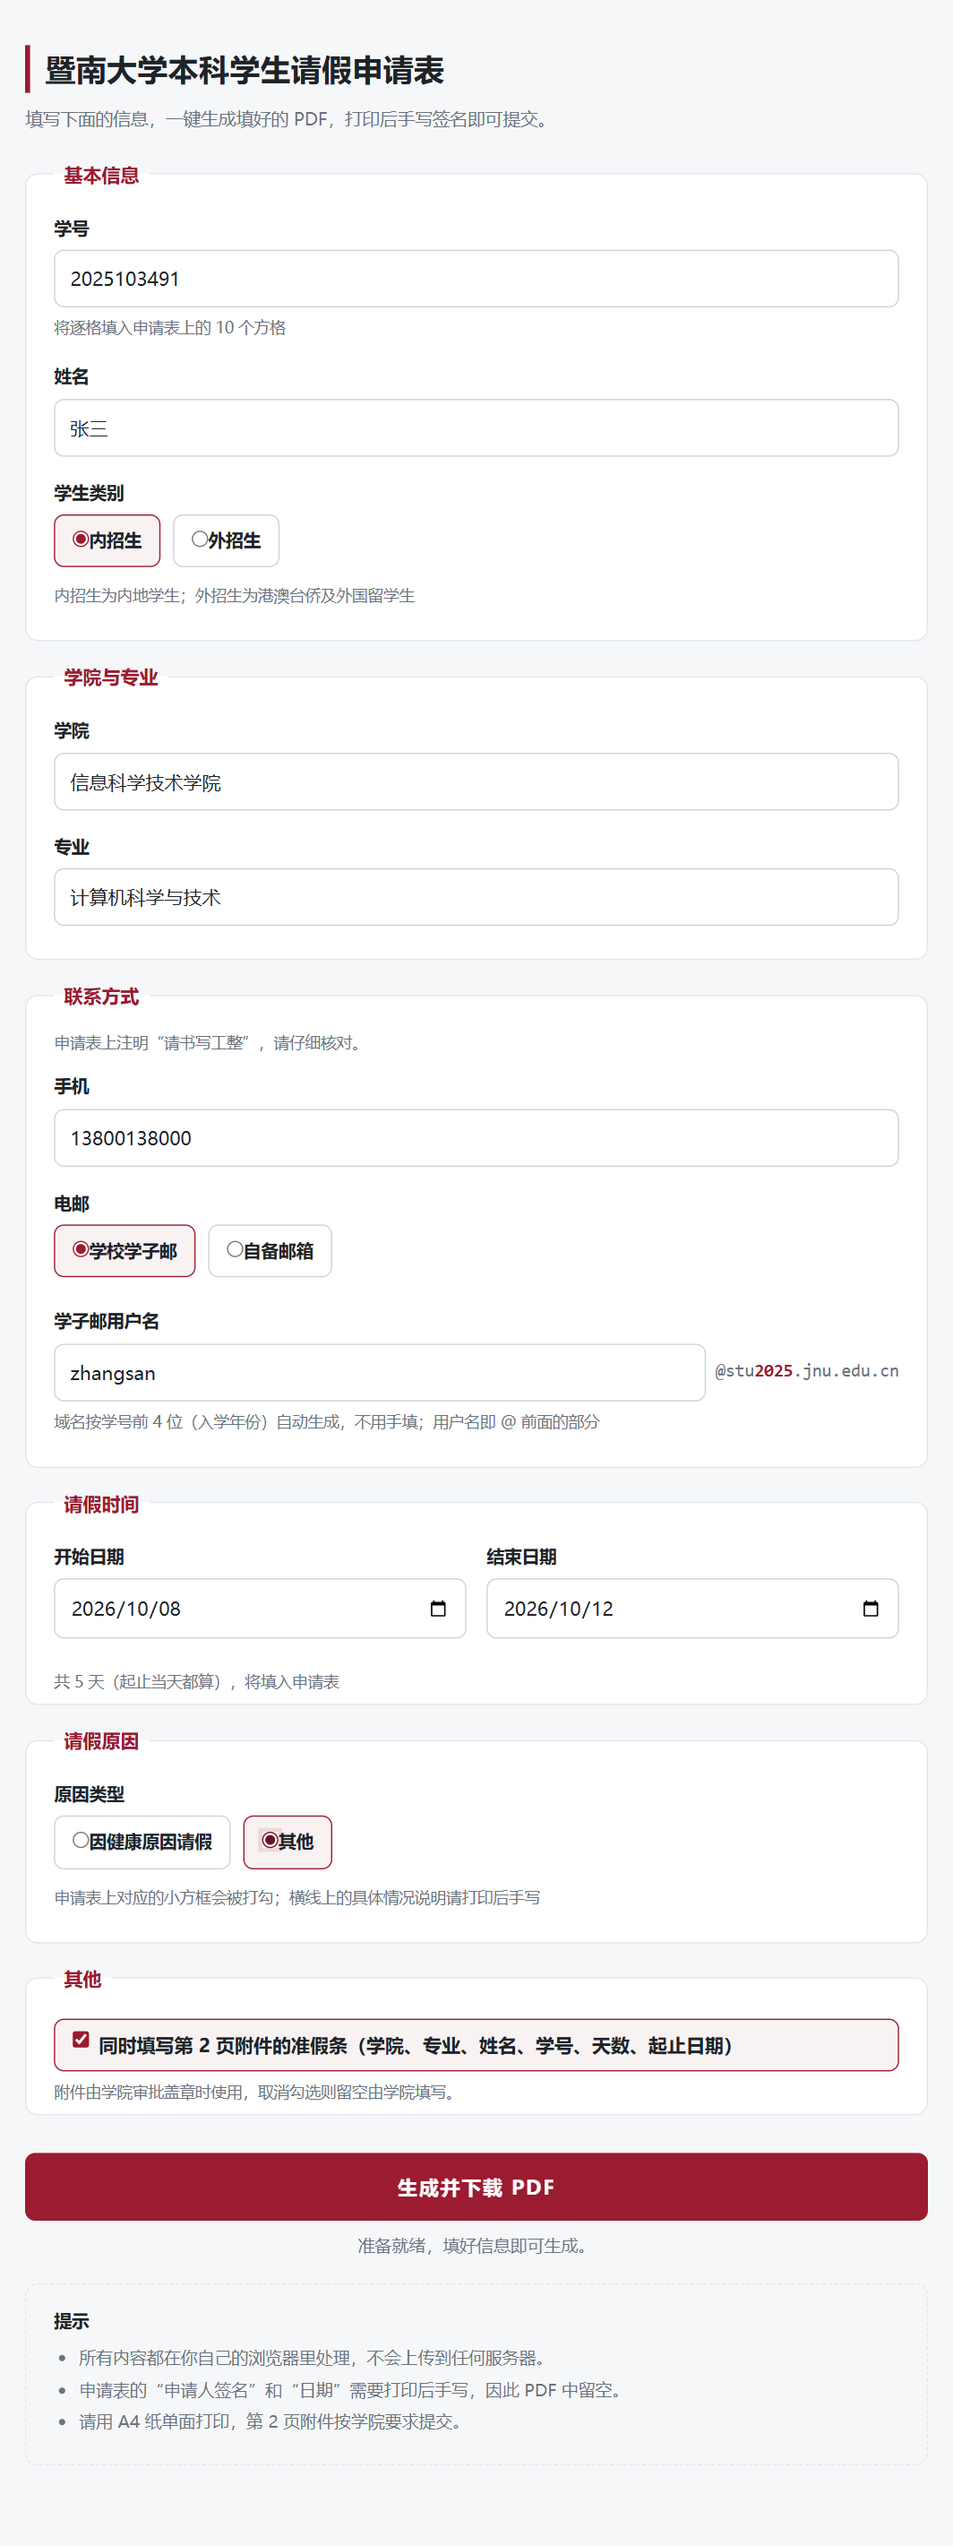
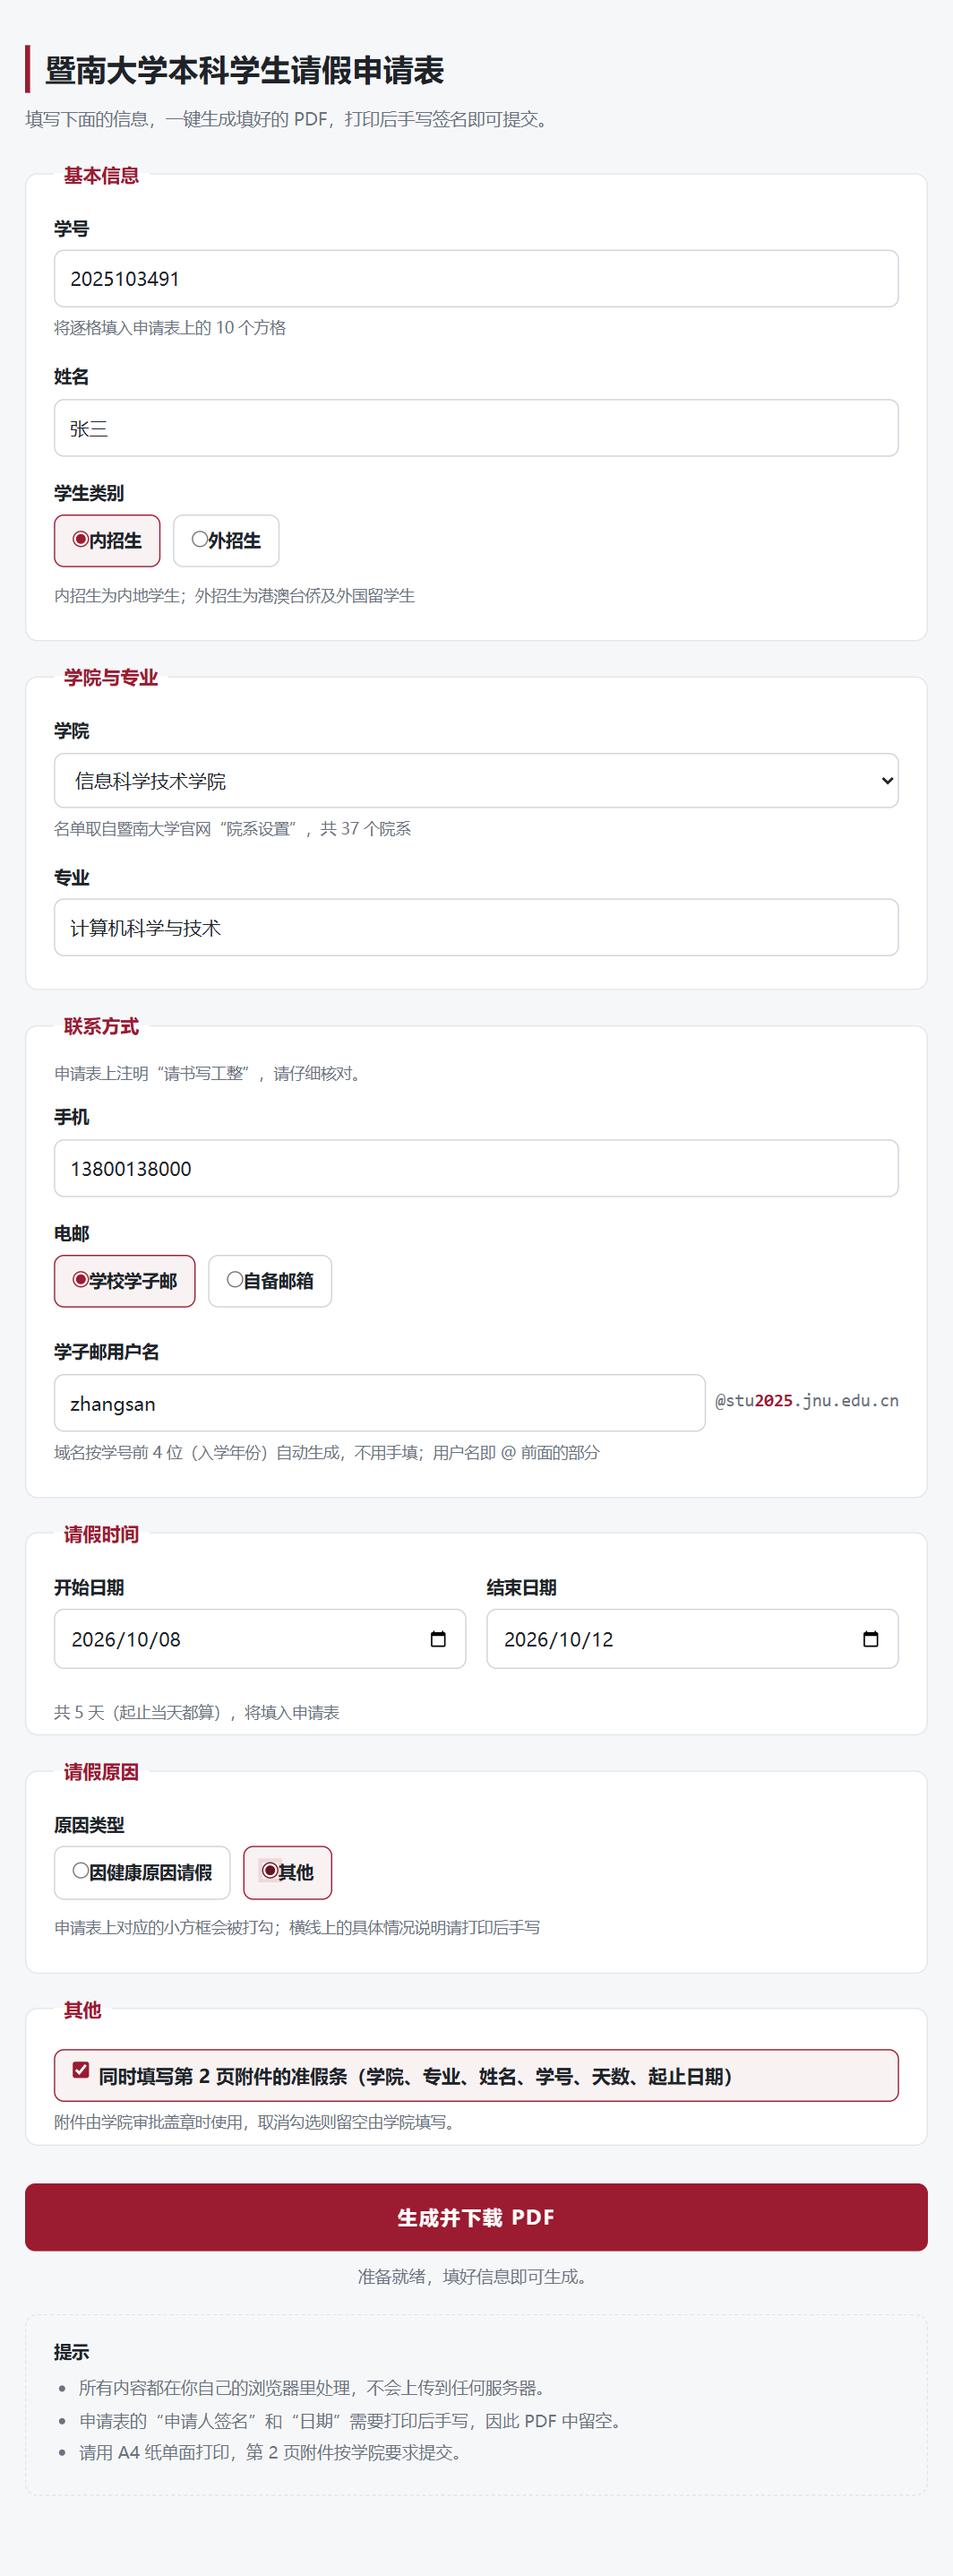
增加院系选择功能

diff --git a/index.html b/index.html
@@ -46,7 +46,59 @@
 
       <div class="field">
         <label for="college">学院</label>
-        <input id="college" name="college" maxlength="30" placeholder="如 信息科学技术学院" required>
+        <select id="college" name="college" required>
+          <option value="">请选择学院</option>
+          <option>文学院</option>
+          <option>外国语学院</option>
+          <option>新闻与传播学院</option>
+          <option>经济学院</option>
+          <option>管理学院</option>
+          <option>公共管理学院</option>
+          <option>应急管理学院</option>
+          <option>法学院</option>
+          <option>知识产权学院</option>
+          <option>国际关系学院</option>
+          <option>物理与光电工程学院</option>
+          <option>生命科学技术学院</option>
+          <option>信息科学技术学院</option>
+          <option>网络空间安全学院</option>
+          <option>化学与材料学院</option>
+          <option>环境与气候学院</option>
+          <option>力学与建筑工程学院</option>
+          <option>基础医学与公共卫生学院</option>
+          <option>中医学院</option>
+          <option>口腔医学院</option>
+          <option>护理学院</option>
+          <option>第一临床医学院</option>
+          <option>第二临床医学院</option>
+          <option>第三临床医学院</option>
+          <option>药学院</option>
+          <option>马克思主义学院</option>
+          <option>艺术学院</option>
+          <option>珠江电影学院</option>
+          <option>体育学院</option>
+          <option>国际学院</option>
+          <option>暨南大学伯明翰大学联合学院</option>
+          <option>华文学院</option>
+          <option>人文学院</option>
+          <option>翻译学院</option>
+          <option>国际商学院</option>
+          <option>包装工程学院</option>
+          <option>深圳旅游学院</option>
+          <option>教育学院</option>
+          <option>四海书院</option>
+          <option>日本学院</option>
+          <option>智能科学与工程学院</option>
+          <option>人工智能产业学院</option>
+          <option>国际能源学院</option>
+          <option value="__other__">其他（手动填写）</option>
+        </select>
+        <p class="hint">名单以暨南大学官网“院系设置”为基础，并含医学部其他临床医学院</p>
+      </div>
+
+      <div class="field" id="collegeOtherField" hidden>
+        <label for="collegeOther">学院名称</label>
+        <input id="collegeOther" name="collegeOther" maxlength="30" placeholder="请填写学院全称">
       </div>
 
       <div class="field">

diff --git a/js/app.js b/js/app.js
@@ -66,8 +66,7 @@ function readForm() {
   const category = form.querySelector('input[name="category"]:checked');
   if (!category) fail($('studentId'), '请选择学生类别（内招生 / 外招生）');
 
-  const college = $('college').value.trim();
-  if (!college) fail($('college'), '请填写学院');
+  const college = readCollege();
 
   const major = $('major').value.trim();
   if (!major) fail($('major'), '请填写专业');
@@ -104,6 +103,25 @@ function readForm() {
     reasonType: reasonType.value,
     fillAttachment: $('fillAttachment').checked,
   };
+}
+
+/* ------------------------------------------------------------------ 学院选择 */
+
+const COLLEGE_OTHER = '__other__';
+
+function readCollege() {
+  if ($('college').value === COLLEGE_OTHER) {
+    const other = $('collegeOther').value.trim();
+    if (!other) fail($('collegeOther'), '请填写学院全称');
+    return other;
+  }
+  if (!$('college').value) fail($('college'), '请选择学院');
+  return $('college').value;
+}
+
+/** 选了“其他”才显示手动填写的输入框 */
+function updateCollegeUi() {
+  $('collegeOtherField').hidden = $('college').value !== COLLEGE_OTHER;
 }
 
 /* --------------------------------------------------------- 电邮（学子邮 / 自备） */
@@ -221,6 +239,7 @@ form.addEventListener('submit', async (event) => {
 $('startDate').addEventListener('change', updateDays);
 $('endDate').addEventListener('change', updateDays);
 $('studentId').addEventListener('input', updateEmailUi);
+$('college').addEventListener('change', updateCollegeUi);
 form.querySelectorAll('input[name="emailMode"]').forEach((el) => {
   el.addEventListener('change', updateEmailUi);
 });
@@ -234,3 +253,4 @@ loadAssets()
   .catch(() => setStatus('资源加载失败，请确认通过 http(s) 访问本页面。', 'error'));
 updateDays();
 updateEmailUi();
+updateCollegeUi();

diff --git a/style.css b/style.css
@@ -78,6 +78,7 @@ input[type="tel"],
 input[type="email"],
 input[type="date"],
 input:not([type]),
+select,
 textarea {
   width: 100%;
   padding: 10px 12px;

diff --git a/README.md b/README.md
@@ -18,6 +18,9 @@
 ## 功能
 
 - 填写学号、姓名、学生类别、学院、专业、手机、电邮、请假时间、请假原因类型
+- 学院从下拉列表选择，名单以暨南大学官网“院系设置”为基础，并含医学部其他临床医学院；
+  两个名称合办的院系（如法学院/知识产权学院）拆成两条分别列出，只列学院、不列研究机构；
+  列表里没有的学院可选“其他（手动填写）”
 - 电邮可选**学校学子邮**或**自备邮箱**：选学子邮时只需填用户名，域名按学号前 4 位
   （入学年份）自动生成，如学号 `2025103491` + 用户名 `zhangsan` → `zhangsan@stu2025.jnu.edu.cn`
 - 学号逐格填入申请表上的 10 个方格
